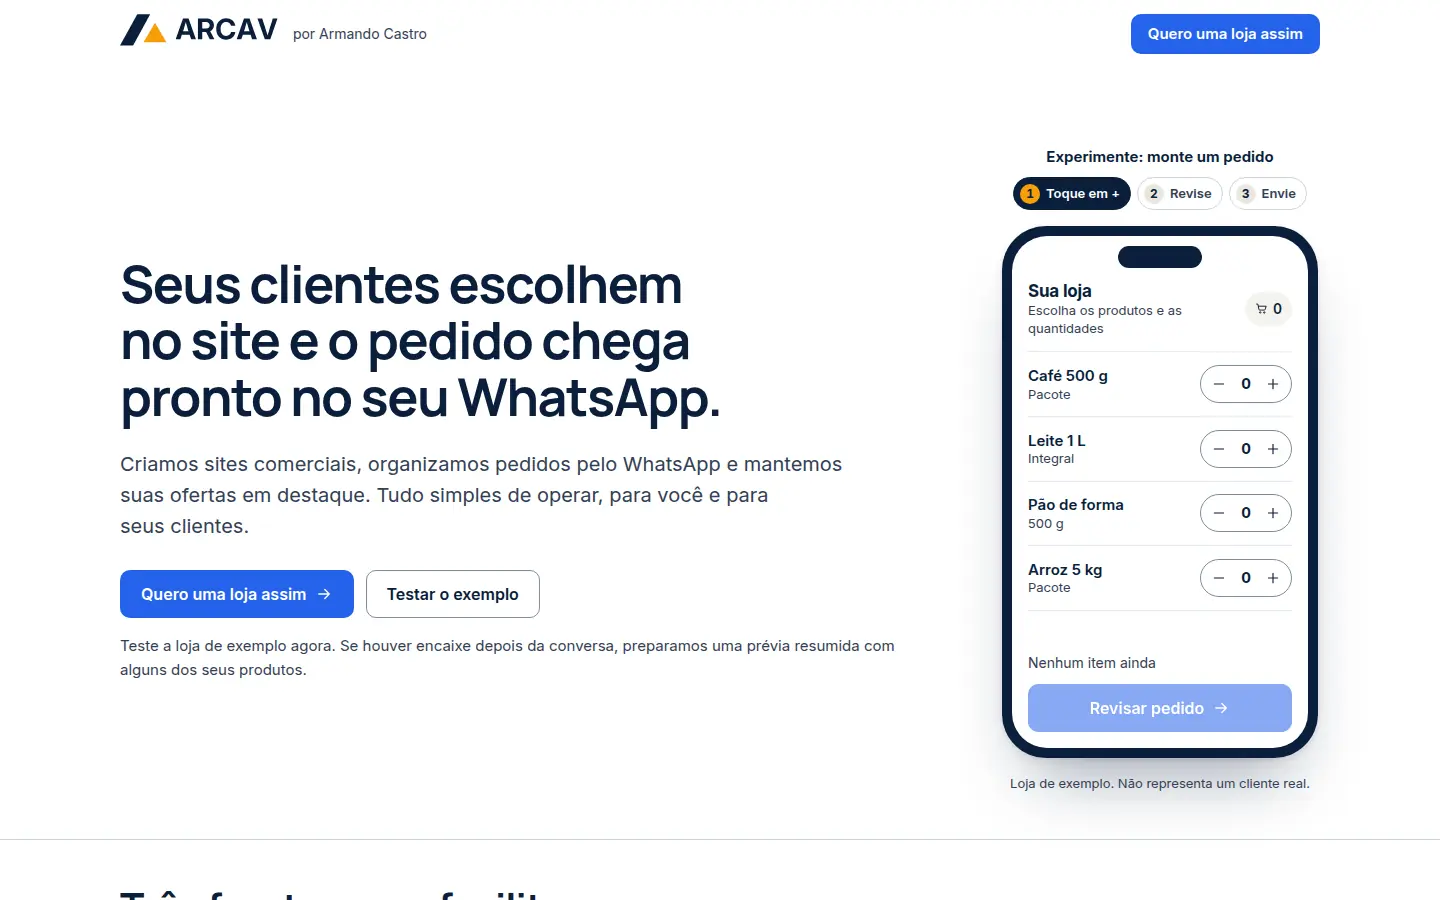
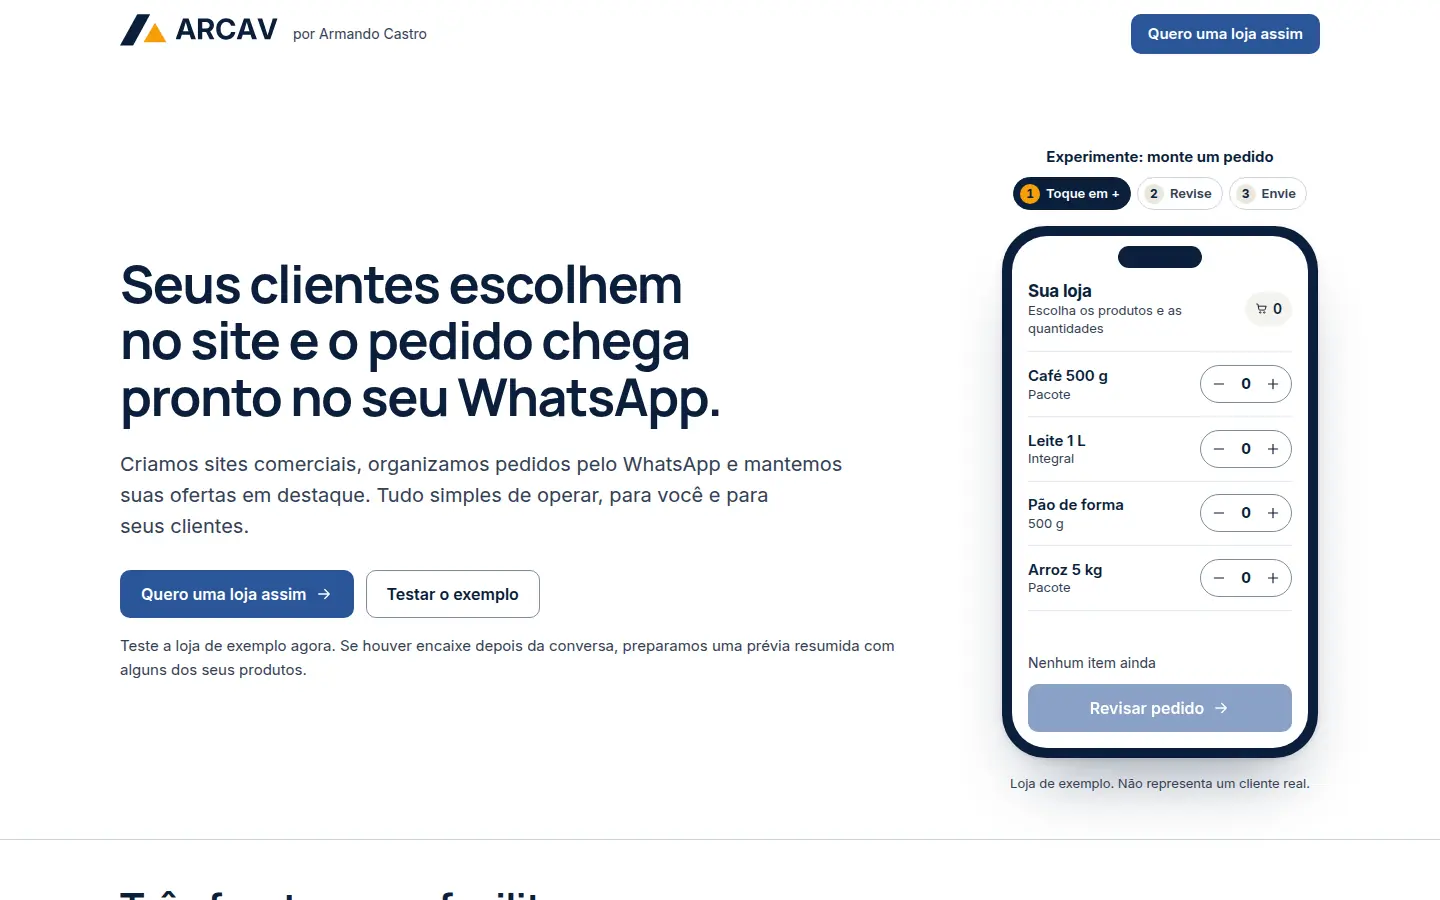
feat: azul de ação mais sóbrio
O azul elétrico do kit (#2563eb) dá lugar a um azul mais contido:
#2a5598 nos botões e no foco (7,37:1 no branco) e #1f4380 no hover e
nos links (9,66:1). DESIGN.md, o sidecar e o brief da home registram a
troca; a imagem do exemplo de comércio foi recapturada com o novo azul.

Changed region(s): [[0.6875, 0.7467, 0.9062, 0.84], [0.0625, 0.6222, 0.25, 0.6844], [0.7812, 0.0, 0.9375, 0.0622]]

diff --git a/src/styles/tokens.css b/src/styles/tokens.css
@@ -9,9 +9,10 @@
   --*: initial;
 
   /* ── Cor (Brand Kit V3) ──────────────────────────────────────────────── */
-  /* Do kit: azul profundo #0b1f3b, azul elétrico #2563eb, âmbar #f59e0b, pizarra #334155,
-     areia #f5f3ee e branco. Os demais tons são derivados e têm o contraste anotado.
-     Azul elétrico sobre azul profundo dá 3,19:1: no escuro, texto e foco vão em branco ou âmbar.
+  /* Do kit: azul profundo #0b1f3b, âmbar #f59e0b, pizarra #334155, areia #f5f3ee e branco.
+     O azul de ação é o azul elétrico do kit (#2563eb) mais sóbrio: metade da saturação, no tom do
+     azul profundo (decisão de 2026-11-22). Os demais tons são derivados e têm o contraste anotado.
+     Azul de ação sobre azul profundo dá 2,24:1: no escuro, texto e foco vão em branco ou âmbar.
      Âmbar sobre claro dá 2,15:1: nunca é texto sobre branco ou areia. */
   --color-white: #ffffff;
   --color-paper: #ffffff;
@@ -25,10 +26,10 @@
   --color-line-hover: #94a3b8;
   /* Borda que identifica um controle (botão secundário, campo, opção): 3,43:1 no branco, 3,09:1 na areia. */
   --color-line-control: #7c8ca2;
-  --color-accent: #2563eb; /* azul elétrico: 5,17:1 no branco, 4,66:1 na areia */
-  --color-accent-strong: #1d4ed8; /* 6,70:1 no branco */
-  --color-accent-tint: rgb(37 99 235 / 0.1);
-  --color-selection: rgb(37 99 235 / 0.2);
+  --color-accent: #2a5598; /* azul de ação: 7,37:1 no branco, 6,64:1 na areia */
+  --color-accent-strong: #1f4380; /* 9,66:1 no branco */
+  --color-accent-tint: rgb(42 85 152 / 0.1);
+  --color-selection: rgb(42 85 152 / 0.2);
   /* Fundo atrás de uma janela (formulário de contato) */
   --color-backdrop: rgb(11 31 59 / 0.6);
   /* Âmbar: acento secundário. Sobre azul profundo (7,68:1), no logo e em sinais de progresso. */

diff --git a/src/styles/components/ui/phone-demo.css b/src/styles/components/ui/phone-demo.css
@@ -85,7 +85,7 @@
 }
 
 /* Progresso em âmbar (Brand Kit V3): o passo atual e os feitos. O número e o ✓ ficam em
-   azul profundo sobre o âmbar (7,68:1); o azul elétrico continua só para o que se toca. */
+   azul profundo sobre o âmbar (7,68:1); o azul continua só para o que se toca. */
 .phone-demo li[aria-current='step'] .demo-guide__n,
 .phone-demo li[data-done] .demo-guide__n {
   background: var(--color-highlight);

diff --git a/DESIGN.md b/DESIGN.md
@@ -1,10 +1,10 @@
 ---
 name: ARCAV
-description: The category-standard studio page, finished to a product-company bar. White ground, deep-navy ink, electric-blue actions and one amber mark (Brand Kit V3).
+description: The category-standard studio page, finished to a product-company bar. White ground, deep-navy ink, sober blue actions and one amber mark (Brand Kit V3).
 colors:
-  accent: "#2563eb"
-  accent-strong: "#1d4ed8"
-  accent-tint: "rgb(37 99 235 / 0.1)"
+  accent: "#2a5598"
+  accent-strong: "#1f4380"
+  accent-tint: "rgb(42 85 152 / 0.1)"
   highlight: "#f59e0b"
   ink: "#0b1f3b"
   muted: "#334155"
@@ -185,12 +185,12 @@ components:
 
 ARCAV presents itself as a studio that publishes its work, not as a services page. The main material is the real work (screenshots of external projects) and the person (Armando), set in an editorial composition: strong contrast of type scale, an asymmetric 12-column grid, images that take real space and few surfaces. It is a way of composing, not a theme: nothing on the page is a costume (no order pad, tile wall, flyer or transit map). The previous North Star ("looks like the category, distinguished by finish") produced a tidy page that could belong to any consultant; tokens, type and brand rules stay, the composition and the material change. Audit and reasoning: `docs/auditorias/AUDITORIA-VISUAL-HOME.md`.
 
-The world is white paper and warm sand, deep-navy ink, electric blue for what you can do and one small amber mark. Cool slate neutrals carry structure: hairlines, dividers and the borders that identify controls. Sand is the alternate section ground. Deep navy is the only heavy fill and is used for emphasis blocks, the closing sections, the footer and the phone body. Electric blue never fills a surface: it marks what to do (primary actions, text links, focus on light grounds) and what has been confirmed on a light ground (check marks). Amber is the secondary accent: the triangle of the logo, marks and links on navy, focus on navy and the progress of the demo guide. Density is moderate and mobile-first, because the primary reader is a Curitiba shop owner who opens the link from WhatsApp on a phone in daylight. That use case is why the system is light only.
+The world is white paper and warm sand, deep-navy ink, a sober blue for what you can do and one small amber mark. Cool slate neutrals carry structure: hairlines, dividers and the borders that identify controls. Sand is the alternate section ground. Deep navy is the only heavy fill and is used for emphasis blocks, the closing sections, the footer and the phone body. The action blue never fills a surface: it marks what to do (primary actions, text links, focus on light grounds) and what has been confirmed on a light ground (check marks). Amber is the secondary accent: the triangle of the logo, marks and links on navy, focus on navy and the progress of the demo guide. Density is moderate and mobile-first, because the primary reader is a Curitiba shop owner who opens the link from WhatsApp on a phone in daylight. That use case is why the system is light only.
 
 The identity comes from the ARCAV Brand Kit V3 (`docs/brand/v3/`, approved 2026-11-21), which replaced the graphite-and-terracotta palette and Schibsted Grotesk. The confirmed visual rejections are themed metaphors that dress up the site, neon and glows, gradients, glass effects, section kickers or eyebrows, invented metrics, and any colour outside the kit used as a brand colour (red and green included).
 
 **Key Characteristics:**
-- White and sand grounds, deep-navy ink, electric-blue actions and one amber accent; neither accent fills a surface.
+- White and sand grounds, deep-navy ink, sober blue actions and one amber accent; neither accent fills a surface.
 - Two self-hosted families: Manrope for headings and editorial lines, Inter for text and interface.
 - The logo is a drawing (`Logo.astro`): a slanted bar, an amber triangle and the ARCAV letters in curves. Below 420px the header shows the symbol alone.
 - Hairlines first. Soft shadows appear only on the phone demo and on panels that hold an interaction or a result.
@@ -204,12 +204,12 @@ The identity comes from the ARCAV Brand Kit V3 (`docs/brand/v3/`, approved 2026-
 
 ## Colors
 
-The palette is cool slate and deep navy, with electric blue for action and one warm amber accent. Restraint with the two accents is what keeps the page calm. Values live in `src/styles/tokens.css`; the derived tones (hover, lines, raised navy, muted text on navy, control borders) were approved with the migration plan, with their contrast measured.
+The palette is cool slate and deep navy, with a sober blue for action and one warm amber accent. Restraint with the two accents is what keeps the page calm. Values live in `src/styles/tokens.css`; the derived tones (hover, lines, raised navy, muted text on navy, control borders) were approved with the migration plan, with their contrast measured.
 
 ### Primary
-- **Electric Blue** (#2563eb): fills primary buttons (white label, 5.17:1), draws the 2px focus outline and the input focus border on light grounds, sets the caret, strokes check marks on light grounds ("O que entra", "Para quem é", the inbox note, the sent confirmation), the services arrow on hover and the icon well of the selected landing option. It is never a section, band or card fill. On navy it drops to 3.19:1, so it never sets text, marks or focus there.
-- **Deep Blue** (#1d4ed8): the hover state of primary buttons and the colour of text links with an arrow and of the service names (6.70:1 on white, 6.04:1 on sand). Text-sized blue always uses this darker shade.
-- **Blue Wash** (rgb(37 99 235 / 0.1)): the 3px focus halo on inputs. Text selection uses the same hue at 0.2 alpha.
+- **Action Blue** (#2a5598): fills primary buttons (white label, 7.37:1), draws the 2px focus outline and the input focus border on light grounds, sets the caret, strokes check marks on light grounds ("O que entra", "Para quem é", the inbox note, the sent confirmation), the services arrow on hover and the icon well of the selected landing option. It is never a section, band or card fill. On navy it drops to 2.24:1, so it never sets text, marks or focus there. It is the kit's electric blue (#2563eb) toned down at the user's request (2026-11-22): same role and hue family, half the chroma (OKLCH C 0.12 against 0.215).
+- **Deep Blue** (#1f4380): the hover state of primary buttons and the colour of text links with an arrow and of the service names (9.66:1 on white, 8.72:1 on sand). Text-sized blue always uses this darker shade.
+- **Blue Wash** (rgb(42 85 152 / 0.1)): the 3px focus halo on inputs. Text selection uses the same hue at 0.2 alpha.
 - **Amber** (#f59e0b): the secondary accent. The triangle of the logo, the check marks in the manifesto "after" column, text links on navy and the keyboard focus on navy (7.68:1 on navy), and the progress of the demo guide (current and done step badges, with the number or check in deep navy, 7.68:1). It never sets text on white or sand (2.15:1).
 
 ### Neutral
@@ -232,13 +232,13 @@ The palette is cool slate and deep navy, with electric blue for action and one w
 - **Validation Red** (#b42318): form validation only, used for the invalid input border and the error message text (6.57:1). It is a status signal and not a brand colour.
 
 ### Named Rules
-**The Blue Acts, Never Fills Rule.** Electric blue appears as a filled button, a text link, a check mark on a light ground, a focus ring or a 10% tint. It never becomes the background of a section, band, panel or card. When a block needs emphasis, it goes navy.
+**The Blue Acts, Never Fills Rule.** The action blue appears as a filled button, a text link, a check mark on a light ground, a focus ring or a 10% tint. It never becomes the background of a section, band, panel or card. When a block needs emphasis, it goes navy.
 
 **The Navy Is the Second Voice Rule.** Emphasis that isn't an action is carried by a navy fill (the manifesto, closing sections and the footer), not by a new colour.
 
 **The Amber Stays Small Rule.** Amber is a mark, never a surface and never text on a light ground: the logo triangle, marks, links and focus on navy, and the demo's progress badges with a navy glyph. On white or sand a mark that must be read goes blue instead.
 
-**The Focus Follows the Ground Rule.** The focus outline uses `--color-focus`: Electric Blue on light grounds, Amber inside `.section--dark` and the footer, where blue would fall to 3.19:1.
+**The Focus Follows the Ground Rule.** The focus outline uses `--color-focus`: Action Blue on light grounds, Amber inside `.section--dark` and the footer, where blue would fall to 2.24:1.
 
 **The Status Is Not Brand Rule.** Red and green are not ARCAV colours. Validation Red exists only to say "this field needs attention" and is never used for decoration or emphasis.
 
@@ -324,7 +324,7 @@ The corner language has two radii plus the pill. Controls (buttons, inputs, icon
 ### Buttons
 Buttons are solid and plain: a label, an optional trailing arrow (or a leading glyph for mail and send), and no ornament.
 - **Shape:** gently rounded controls (10px), at least 48px tall, with 20px inline padding, a 1rem/600 label and an 18px icon with an 8px gap.
-- **Primary:** Electric Blue with a white label. It is used for the one main action in each region, such as "Falar com a ARCAV", "Fale comigo", the commerce CTA, form submit and the closing CTA.
+- **Primary:** Action Blue with a white label. It is used for the one main action in each region, such as "Falar com a ARCAV", "Fale comigo", the commerce CTA, form submit and the closing CTA.
 - **Hover / Active / Focus:** hover deepens the fill to Deep Blue over 0.18s. Active nudges the button down 1px with the house ease-out. Focus draws a 2px outline offset by 3px in the focus colour (blue on light grounds, amber on navy).
 - **Ghost:** Paper White face, Control Line border and Deep Navy Ink label. On hover the border goes to the ink. On navy grounds it turns transparent with a Control Line on Navy border and a white label.
 - **Small:** 40px tall with 16px padding and a 0.9375rem label. It is used for the header CTA and for the actions in the composed-message panel. This size sits below the 44px touch-target commitment, so don't extend it to new primary mobile actions.
@@ -350,7 +350,7 @@ This is an inline sequence of short words such as "Visita → Formulário → Le
 ### Inputs / Fields
 - **Style:** Paper White face, Control Line border, 10px radius, at least 48px tall (textareas start at 136px and resize vertically) and a 1rem text size. A 600-weight label sits above, with "(opcional)" in Slate at 400. Hints are 0.875rem in Slate.
 - **Hover:** the border darkens to the ink.
-- **Focus:** the border turns Electric Blue and a 3px Blue Wash halo appears, with no outline.
+- **Focus:** the border turns Action Blue and a 3px Blue Wash halo appears, with no outline.
 - **Error:** the border and the message text turn Validation Red (message 0.875rem/500). Messages are written in a friendly first person, and the error is cleared as the visitor types.
 - **Composed message:** after submit, a Sand panel (14px) shows a 600-weight status line, then the exact message in a white, hairline-bordered 10px box, then small ghost buttons for "Abrir de novo" and "Copiar mensagem".
 
@@ -394,6 +394,7 @@ A tokenização preservou o visual aprovado ao pixel, por isso a escala ainda te
 
 - Paleta, fontes, logo e ícones do kit (`docs/brand/v3/`) aplicados só pelos tokens: os nomes ficaram, os valores mudaram (`clay` virou `highlight`; entraram `--color-focus`, `--color-line-control`, `--color-on-dark-line-control`, `--font-heading`, `--spacing-logo`, `--aspect-logo`, `--aspect-symbol` e `--breakpoint-logo`).
 - Medido por etapa: Inter deixou as páginas de 0 a 2,6% mais altas (parágrafos); Manrope encurtou quatro títulos em uma linha. Sem estouro em 320–1440px; CLS 0; contraste AA em todos os textos; foco com 4,66:1 ou mais.
+- Azul de ação mais sóbrio que o do kit (pedido do usuário, 2026-11-22): `#2a5598` no lugar de `#2563eb` e `#1f4380` no hover e nos links, no mesmo papel. Metade da saturação e o tom puxado para o azul profundo; o contraste sobe (7,37:1 com rótulo branco, 6,64:1 na areia). No fechamento escuro, o botão fica mais discreto (2,24:1 contra o azul profundo, antes 3,19:1); o rótulo branco continua com 7,37:1.
 
 ### Fotos (2026-11-21)
 
@@ -417,7 +418,7 @@ A tokenização preservou o visual aprovado ao pixel, por isso a escala ainda te
 ## Do's and Don'ts
 
 ### Do:
-- **Do** keep electric blue (#2563eb, hover #1d4ed8) to actions and marks: filled primary buttons, arrowed text links in the darker shade, check marks on light grounds, focus and caret.
+- **Do** keep the action blue (#2a5598, hover #1f4380) to actions and marks: filled primary buttons, arrowed text links in the darker shade, check marks on light grounds, focus and caret.
 - **Do** keep amber (#f59e0b) small: the logo triangle, marks, links and focus on navy, and the demo's progress badges with a navy glyph.
 - **Do** carry emphasis with a Deep Navy (#0b1f3b) panel or section when a block must stand out without being an action.
 - **Do** alternate Paper White and Sand (#f5f3ee) section grounds, separate surfaces with 1px Hairlines (#e2e8f0 / #cbd5e1), and give every control a Control Line border (#7c8ca2, 3:1 or more).
@@ -432,8 +433,8 @@ A tokenização preservou o visual aprovado ao pixel, por isso a escala ainda te
 - **Do** number only real sequences (the method). The services index has no numerals: the services are not an order.
 
 ### Don't:
-- **Don't** fill a section, band, card or panel with electric blue or amber.
-- **Don't** set amber text on white or sand (2.15:1), or blue text, marks or focus on navy (3.19:1).
+- **Don't** fill a section, band, card or panel with blue or amber.
+- **Don't** set amber text on white or sand (2.15:1), or blue text, marks or focus on navy (2.24:1).
 - **Don't** introduce colours outside the kit as brand colours. Validation Red (#b42318) is for form errors only.
 - **Don't** put kickers or eyebrows above section headings.
 - **Don't** box steps or sequences into cards.

diff --git a/.impeccable/surfaces/src-pages-index-astro.md b/.impeccable/surfaces/src-pages-index-astro.md
@@ -11,7 +11,7 @@ Mode: Persuade. pt-BR only. Same world carries every `/solucoes/*` page and `/pr
 
 THESIS: The category standard, executed without irony at the finish level of RD Station / Conta Azul and Vercel / Framer: a clear studio page that proves the offer with a working order demo instead of a stock device mockup. It refuses themed costumes (order pad, tiles, flyer, transit map) and the old dark-navy/coral tech look.
 
-OWN-WORLD (Brand Kit V3, 2026-11-22): White and sand #F5F3EE grounds, deep-navy ink #0B1F3B, hairlines #E2E8F0, electric blue #2563EB for primary actions and links, amber #F59E0B as a small mark (logo, marks on navy, progress). Manrope for headings, Inter for text, both self-hosted. 14px card radius, 10px controls, soft offset shadows only on the phone and raised panels. Authored line icons, one stroke. No eyebrows, no gradients, no glass.
+OWN-WORLD (Brand Kit V3, 2026-11-22): White and sand #F5F3EE grounds, deep-navy ink #0B1F3B, hairlines #E2E8F0, a sober action blue #2A5598 (the kit's electric blue toned down, 2026-11-22) for primary actions and links, amber #F59E0B as a small mark (logo, marks on navy, progress). Manrope for headings, Inter for text, both self-hosted. 14px card radius, 10px controls, soft offset shadows only on the phone and raised panels. Authored line icons, one stroke. No eyebrows, no gradients, no glass.
 
 STORY: A business owner, marketer, speaker or shop owner arriving from a WhatsApp link understands in one screen that ARCAV builds the page or system their case needs, sees a real example for their kind of project, trusts Armando, and opens their solution page or sends a message. (User correction 2026-11-21: six solutions, not commerce only.)
 
